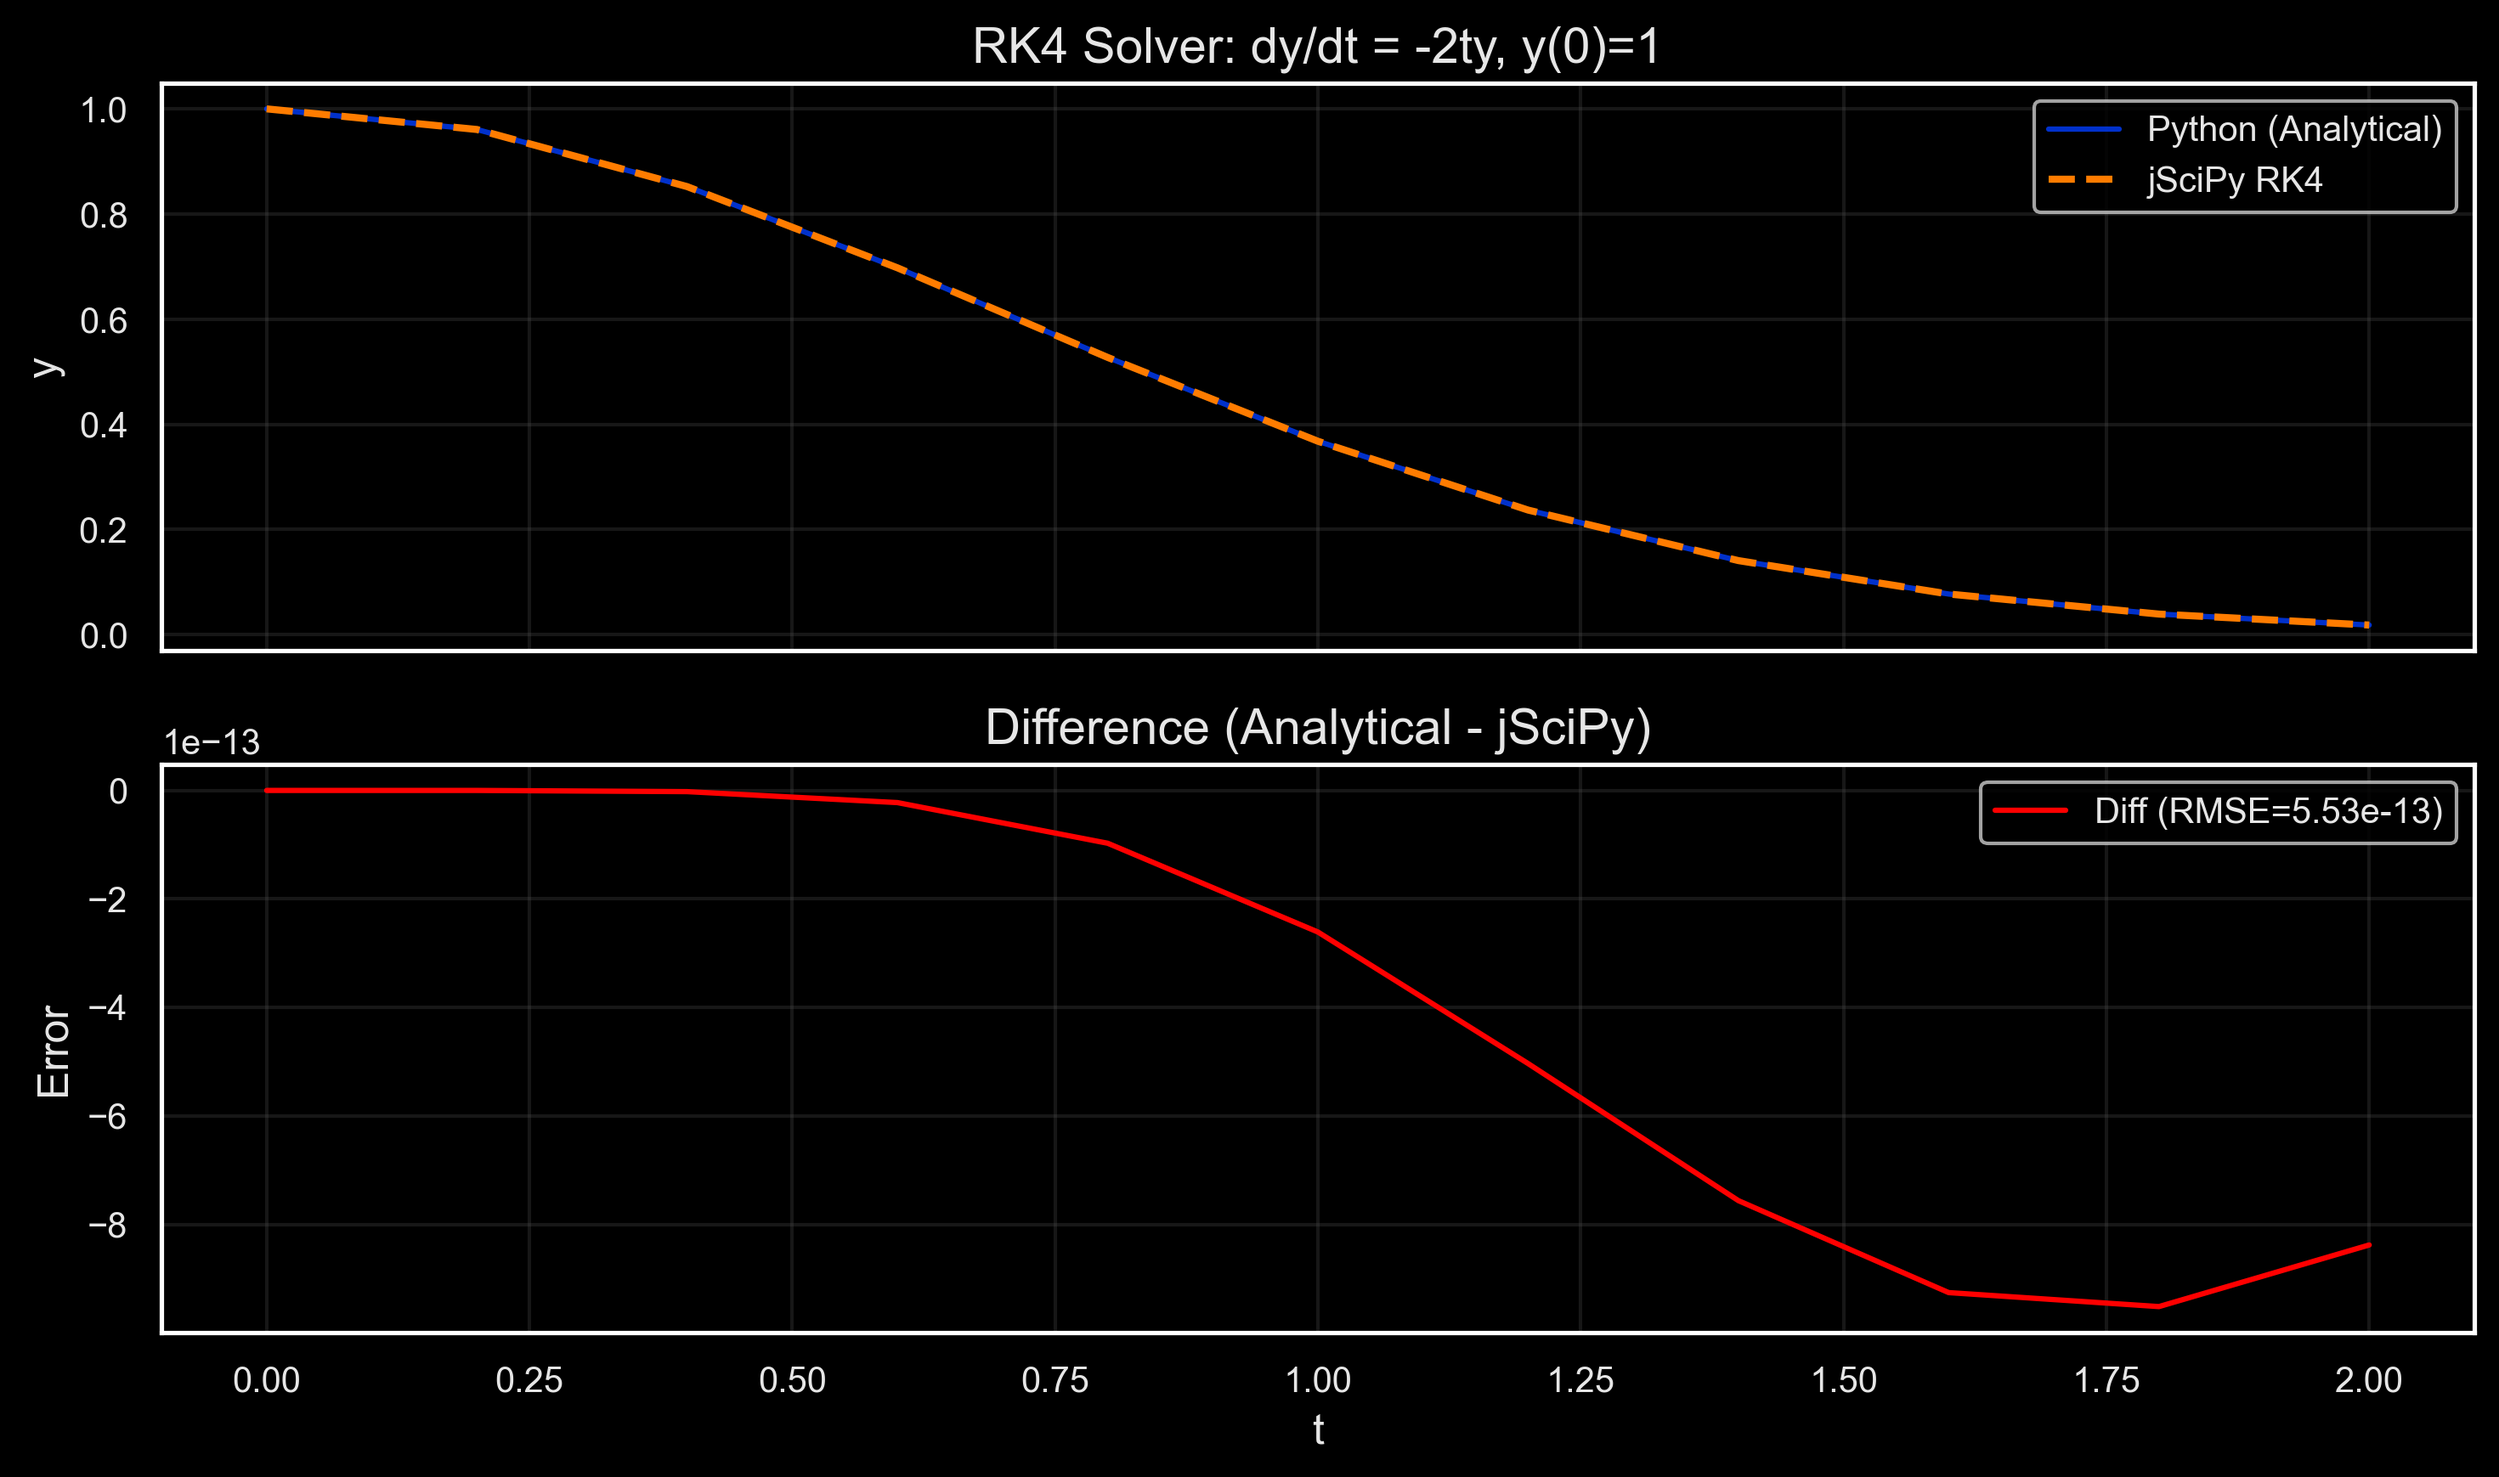
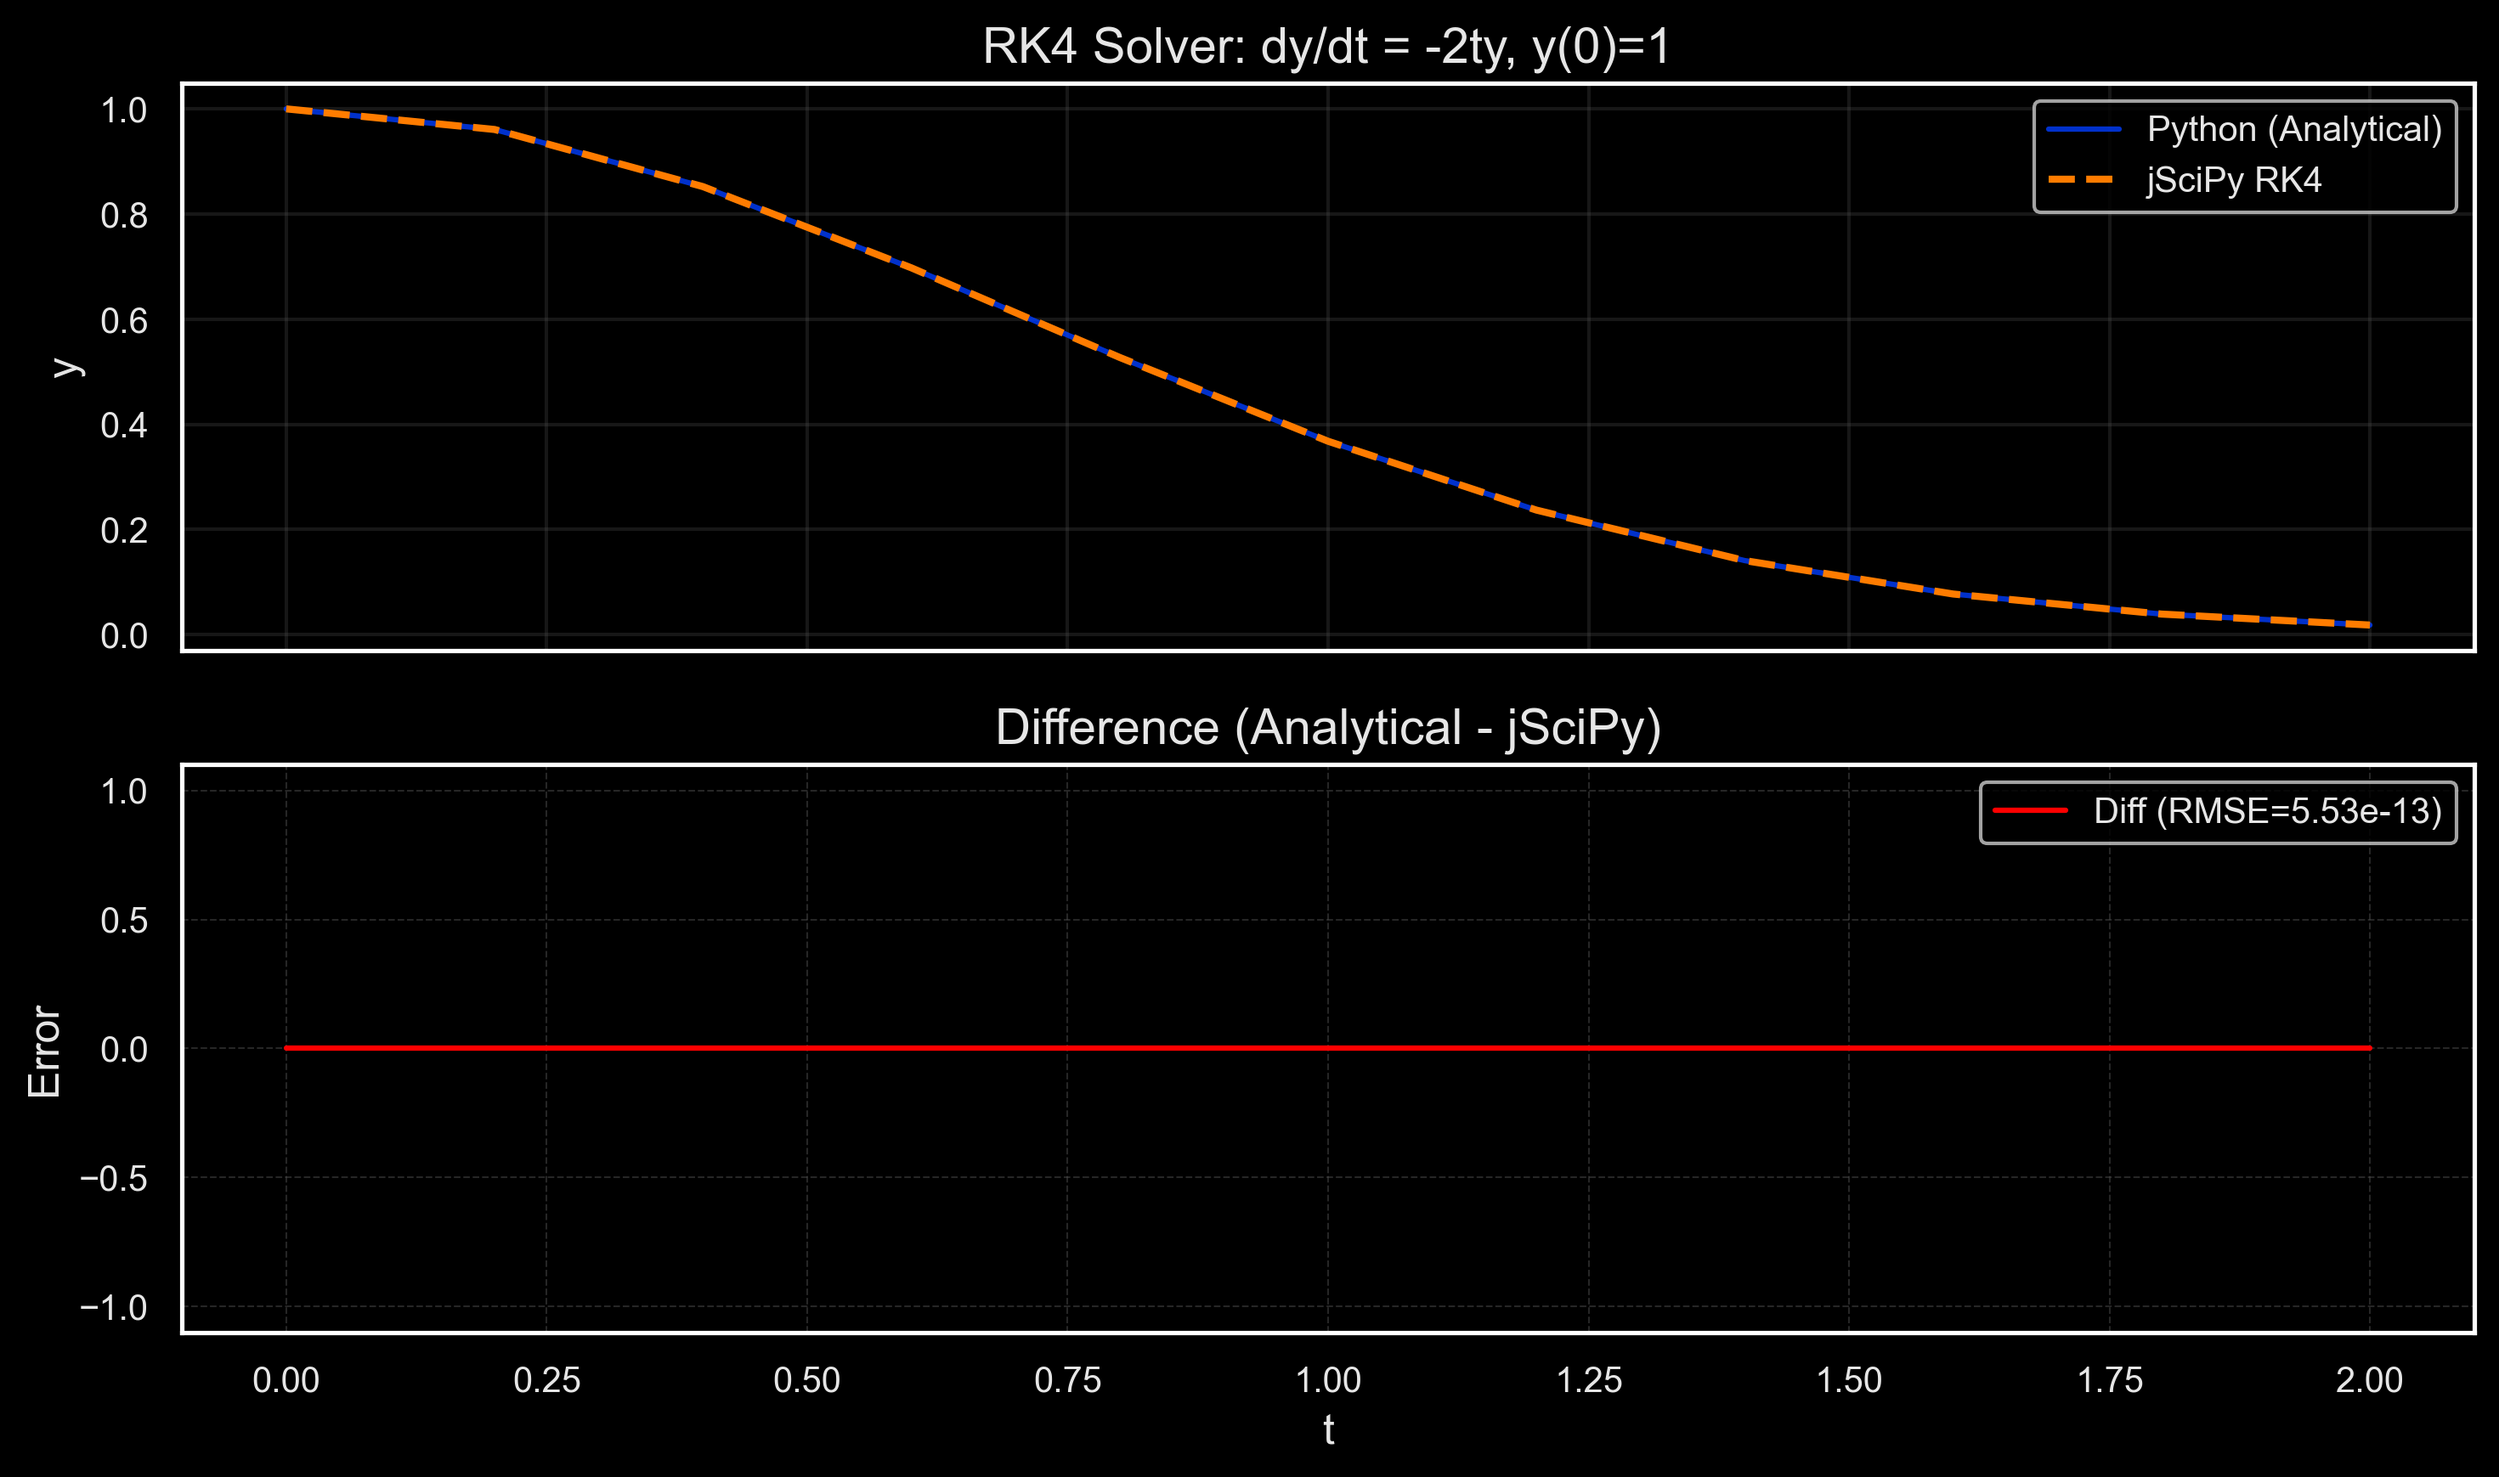
fix: improve comparison plot RMSE scaling and add spectrogram diff panel
- Add finalize_diff_plot() to plot_rk4.py, plot_savitzky_golay.py,
  plot_dct.py, plot_poly.py for proper Y-axis scaling
- Modify plot_spectrogram.py to use 3-panel layout with diff heatmap
- Regenerate all comparison plots for light and dark themes

diff --git a/python/comparison/plot_spectrogram.py b/python/comparison/plot_spectrogram.py
@@ -54,22 +54,35 @@ def plot_spectrogram_comparison(test_name):
         rmse = np.sqrt(np.mean((sxx_py - sxx_java)**2))
         print(f"RMSE for {test_name}: {rmse}")
         
-        # Plot
-        fig, axes = plt.subplots(1, 2, figsize=(14, 6), sharey=True)
+        # Convert to dB for visualization
+        sxx_py_db = 10 * np.log10(sxx_py + 1e-10)
+        sxx_java_db = 10 * np.log10(sxx_java + 1e-10)
+        
+        # Plot with 3 panels: SciPy, jSciPy, and Diff
+        fig, axes = plt.subplots(1, 3, figsize=(18, 6), sharey=True)
         
         # Python Plot
-        im0 = axes[0].pcolormesh(times, freqs, 10 * np.log10(sxx_py + 1e-10), shading='gouraud', cmap='viridis')
-        axes[0].set_title(f'SciPy Spectrogram (dB)\n{test_name}')
+        im0 = axes[0].pcolormesh(times, freqs, sxx_py_db, shading='gouraud', cmap='viridis')
+        axes[0].set_title(f'SciPy Spectrogram (dB)')
         axes[0].set_ylabel('Frequency [Hz]')
         axes[0].set_xlabel('Time [sec]')
         plt.colorbar(im0, ax=axes[0], label='Power/Frequency (dB/Hz)')
         
         # Java Plot
-        im1 = axes[1].pcolormesh(times, freqs, 10 * np.log10(sxx_java + 1e-10), shading='gouraud', cmap='viridis')
-        axes[1].set_title(f'jSciPy Spectrogram (dB)\n{test_name}')
+        im1 = axes[1].pcolormesh(times, freqs, sxx_java_db, shading='gouraud', cmap='viridis')
+        axes[1].set_title(f'jSciPy Spectrogram (dB)')
         axes[1].set_xlabel('Time [sec]')
         plt.colorbar(im1, ax=axes[1], label='Power/Frequency (dB/Hz)')
         
+        # Difference Plot (in dB scale)
+        diff_db = sxx_py_db - sxx_java_db
+        vmin, vmax = style_utils.finalize_diff_plot(None, sxx_py_db, is_2d=True)
+        im2 = axes[2].pcolormesh(times, freqs, diff_db, shading='gouraud', cmap='coolwarm', vmin=vmin, vmax=vmax)
+        axes[2].set_title(f'Diff (RMSE={rmse:.2e})')
+        axes[2].set_xlabel('Time [sec]')
+        plt.colorbar(im2, ax=axes[2], label='Difference (dB)')
+        
+        plt.suptitle(f'Spectrogram Comparison: {test_name}')
         plt.tight_layout()
         style_utils.save_plot(fig, f"spectrogram/{test_name}_comparison.png")
         plt.close(fig)

diff --git a/python/comparison/plot_rk4.py b/python/comparison/plot_rk4.py
@@ -29,12 +29,11 @@ def plot_test(input_filename, python_output_filename, java_output_filename):
     diff = python_output - java_output
     rmse = np.sqrt(np.mean(diff**2))
     ax2.plot(t_span, diff, label=f'Diff (RMSE={rmse:.2e})', color='red')
+    style_utils.finalize_diff_plot(ax2, python_output)
     ax2.legend()
     ax2.set_title("Difference (Analytical - jSciPy)")
     ax2.set_xlabel("t")
     ax2.set_ylabel("Error")
-    ax2.ticklabel_format(style='scientific', axis='y', scilimits=(-2,2))
-    ax2.grid(True, alpha=0.3)
 
     plt.tight_layout()
     os.makedirs('python/figs/rk4', exist_ok=True)

diff --git a/python/comparison/plot_poly.py b/python/comparison/plot_poly.py
@@ -45,12 +45,11 @@ def plot_polyfit(test_name):
     
     # Plot 2: Difference (error)
     diff = y_java - y_scipy
-    axes[1].plot(x_smooth, diff, '-', linewidth=1.5)
+    axes[1].plot(x_smooth, diff, '-', linewidth=1.5, color='red')
+    style_utils.finalize_diff_plot(axes[1], y_scipy)
     axes[1].set_title("Difference (jSciPy - SciPy)")
     axes[1].set_xlabel("x")
     axes[1].set_ylabel("Difference")
-    axes[1].ticklabel_format(style='scientific', axis='y', scilimits=(-2,2))
-    axes[1].grid(True, alpha=0.3)
     
     plt.tight_layout()
     

diff --git a/python/comparison/plot_savitzky_golay.py b/python/comparison/plot_savitzky_golay.py
@@ -47,11 +47,11 @@ def plot_test(test_name, title):
     rmse = np.sqrt(np.mean(residual**2))
     
     ax2.plot(t, residual, color='red', label=f'Residual (RMSE={rmse:.2e})')
+    style_utils.finalize_diff_plot(ax2, scipy_out)
     ax2.set_title('Difference (SciPy - Java)')
     ax2.set_xlabel('Sample Index')
     ax2.set_ylabel('Difference')
     ax2.legend()
-    ax2.grid(True)
 
     plt.tight_layout()
     style_utils.save_plot(fig, f"savgol/{test_name}.png")

diff --git a/python/comparison/plot_dct.py b/python/comparison/plot_dct.py
@@ -35,6 +35,7 @@ def plot_dct_comparison(test_id):
     # Plot 2: Difference (Error)
     diff = y_java - y_scipy
     ax2.plot(diff, color='red', label='Difference (Java - SciPy)')
+    style_utils.finalize_diff_plot(ax2, y_scipy)
     ax2.set_title("Difference (Error)")
     ax2.set_ylabel("Error")
     ax2.set_xlabel("Bin Index")
